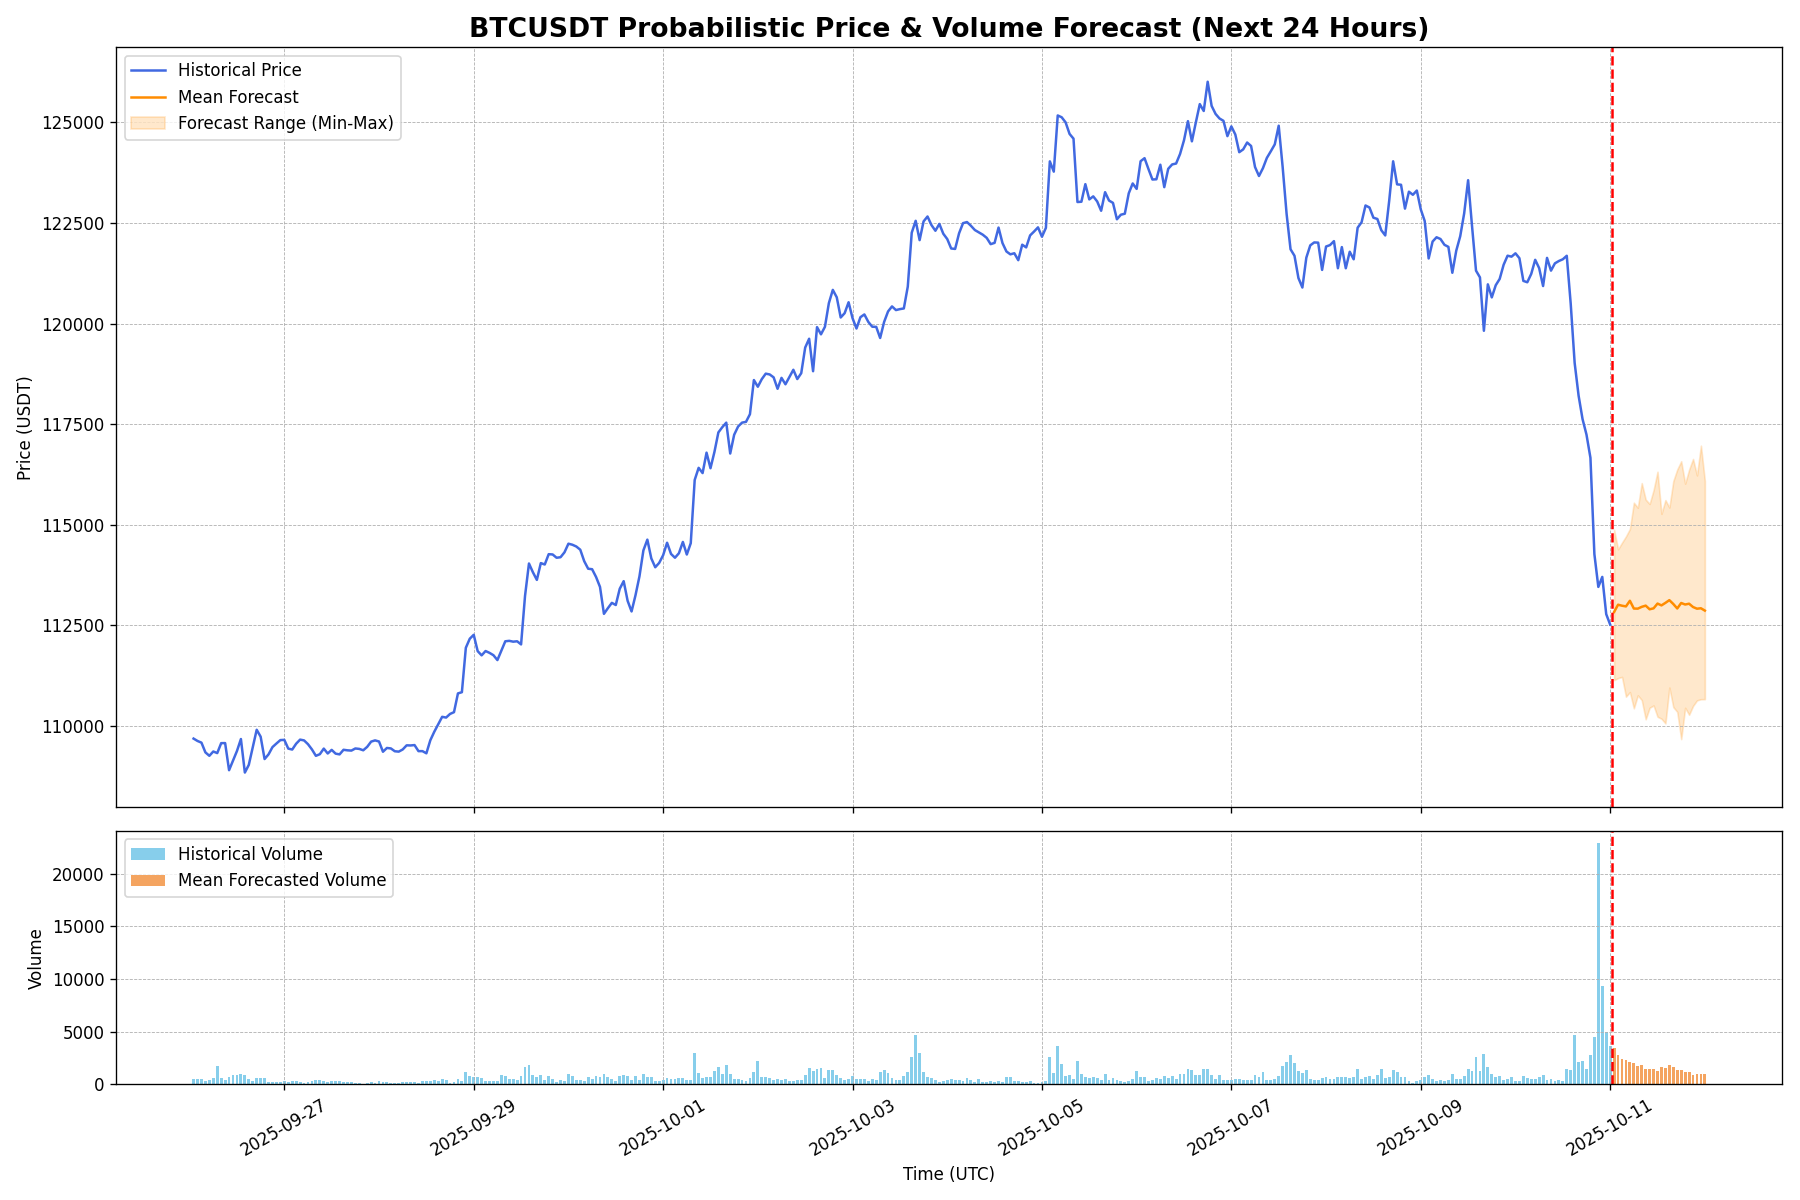
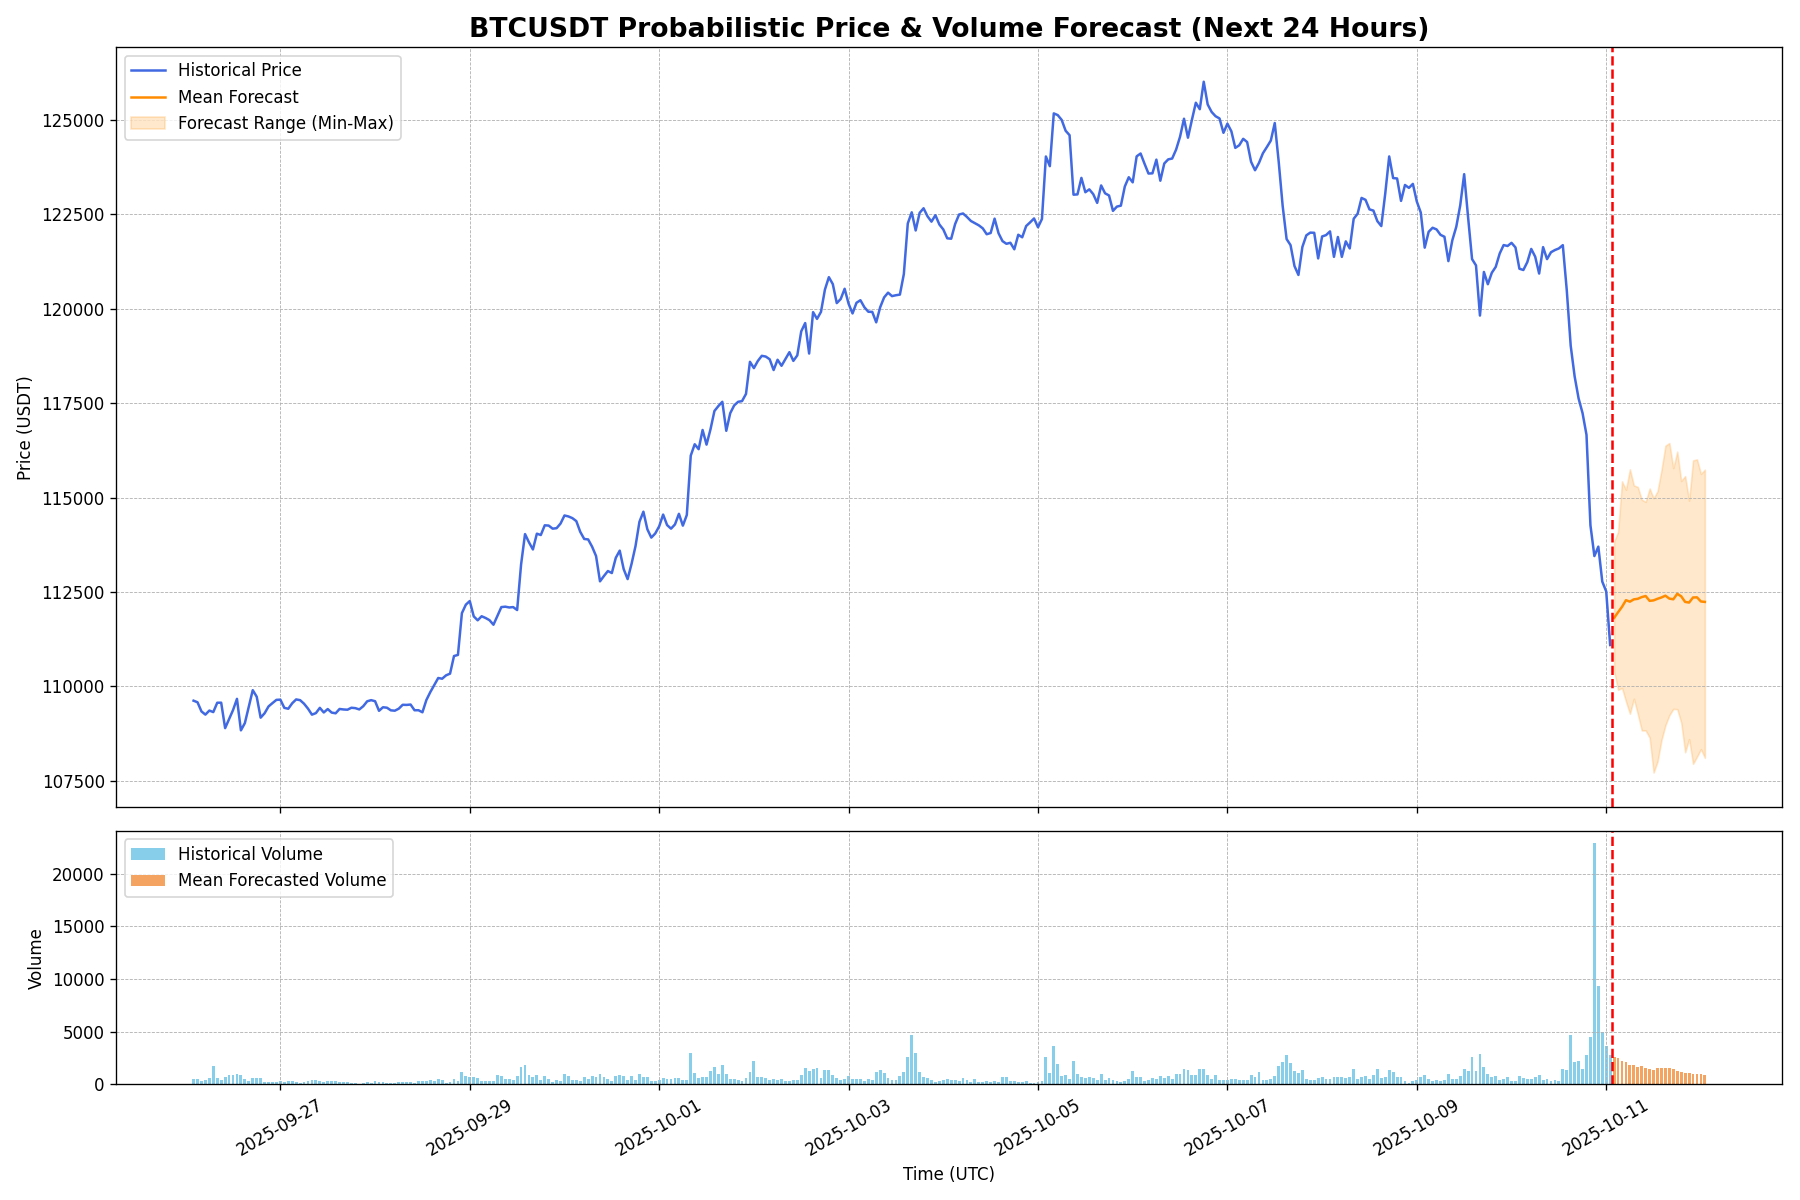
Auto-update forecast for 2025-10-11 02:01 UTC

diff --git a/index.html b/index.html
@@ -22,19 +22,19 @@
         <section id="live-dashboard">
             <h2>Live BTC/USDT Forecast Dashboard</h2>
             <div class="metadata">
-                <span>Last Updated (UTC): <strong id="update-time">2025-10-11 01:01:07</strong></span>
+                <span>Last Updated (UTC): <strong id="update-time">2025-10-11 02:01:07</strong></span>
                 <span>Data Source: Binance | Interval: 1-Hour</span>
             </div>
 
             <div class="metrics-container">
                 <div class="metric-card">
                     <h3>Upside Probability (Next 24h)</h3>
-                    <p class="metric-value" id="upside-prob">53.3%</p>
+                    <p class="metric-value" id="upside-prob">80.0%</p>
                     <div class="metric-desc">The model's confidence that the price in 24 hours will be higher than the last known price.</div>
                 </div>
                 <div class="metric-card">
                     <h3>Volatility Amplification (Next 24h)</h3>
-                    <p class="metric-value" id="vol-amp-prob">6.7%</p>
+                    <p class="metric-value" id="vol-amp-prob">10.0%</p>
                     <div class="metric-desc">The probability that predicted volatility over the next 24h will exceed recent historical volatility.</div>
                 </div>
             </div>
